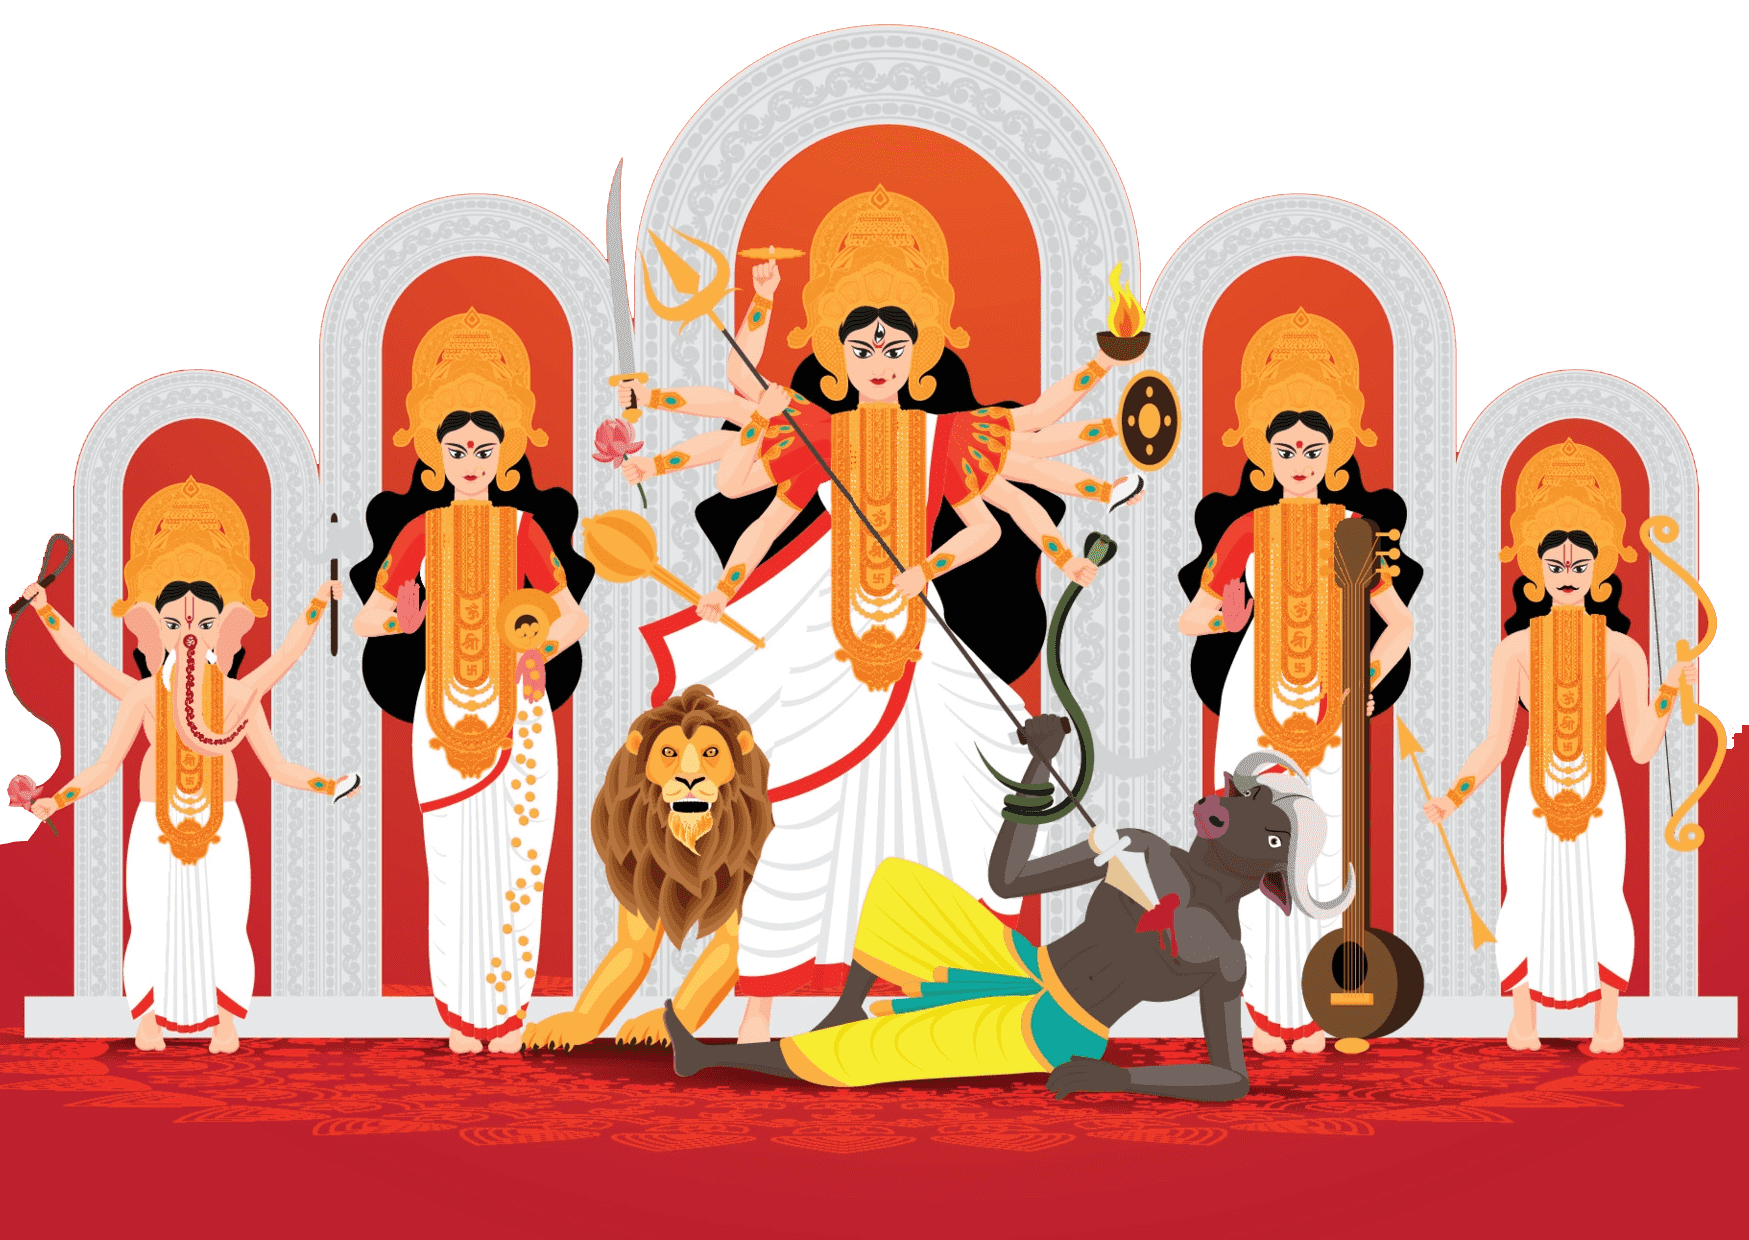
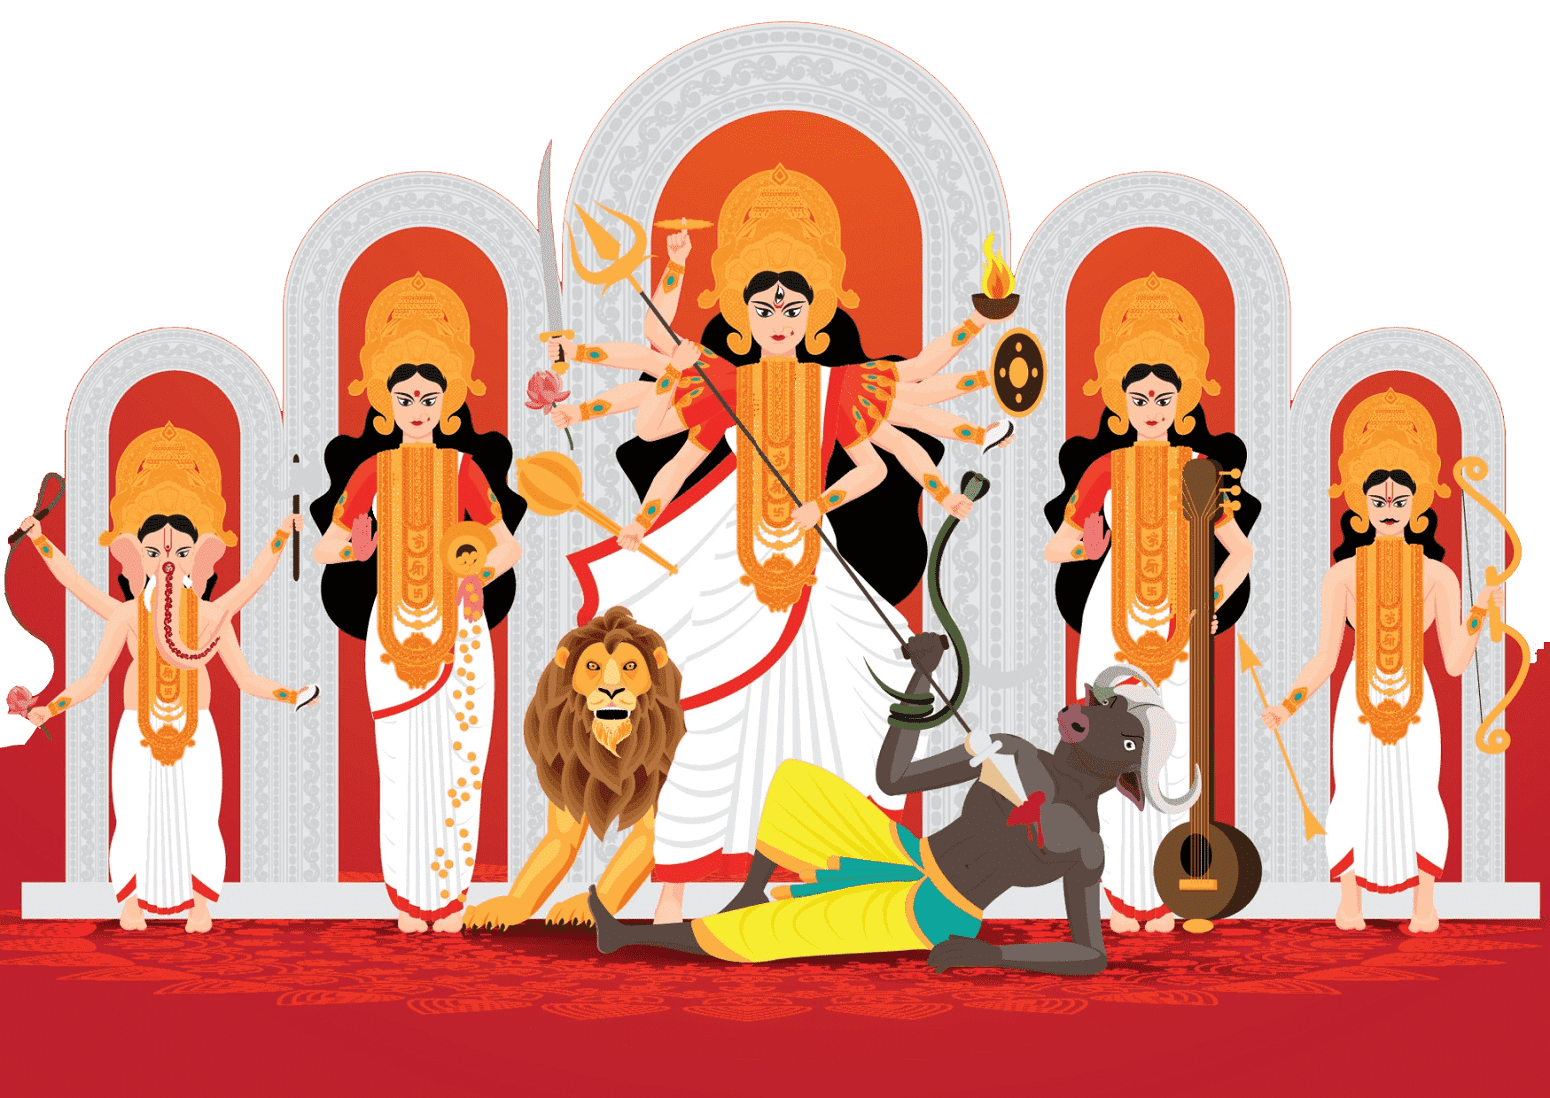
optimise dhunochi photo

diff --git a/index.html b/index.html
@@ -187,7 +187,7 @@
               />
               <img
                 src="./assets/pictures/1-idolmaking.png"
-                alt="dhaki on the left"
+                alt="a person making durga maa murti illustration"
                 class="step-img"
               />
             </picture>
@@ -195,11 +195,21 @@
 
           <!-- ? Day 02 - Saptami -->
           <div class="step-img-box">
-            <img
-              src="./assets/pictures/2-dhunochi.png"
-              alt="Dhunochi illustration"
-              class="step-img"
-            />
+            <picture>
+              <source
+                srcset="./assets/pictures/2-dhunochi.webp"
+                type="image/webp"
+              />
+              <source
+                srcset="./assets/pictures/2-dhunochi-min.png"
+                type="image/png"
+              />
+              <img
+                src="./assets/pictures/2-dhunochi-min.png"
+                alt="people dancing with a dhunochi illustration"
+                class="step-img"
+              />
+            </picture>
           </div>
           <div class="step-text-box">
             <p class="step-number">02<sup>nd</sup> OCT</p>
